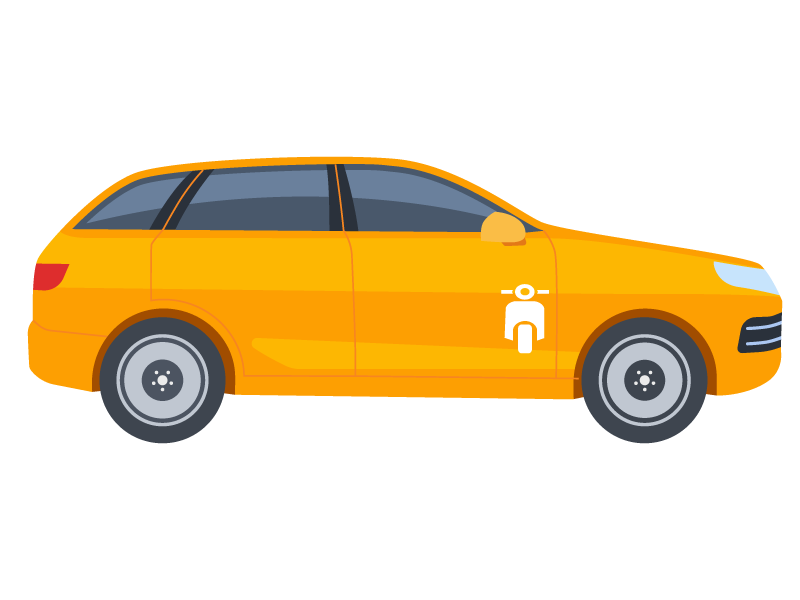
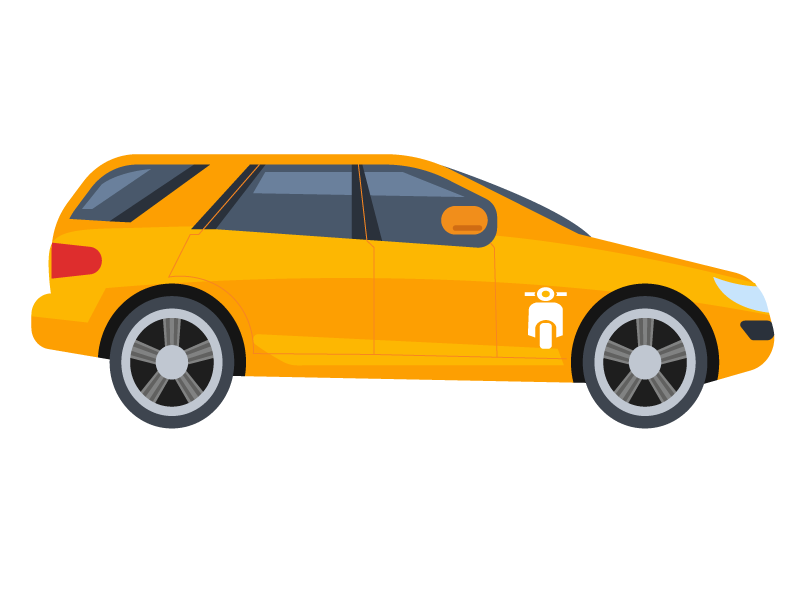
Added more vehicle images.

Changed region(s): [[0.0312, 0.24, 1.0, 0.75]]

diff --git a/src/Toktok/screens/AuthenticatedScreens/DeliveryServiceScreens/ToktokVehicleInformation/components/VehicleType.js b/src/Toktok/screens/AuthenticatedScreens/DeliveryServiceScreens/ToktokVehicleInformation/components/VehicleType.js
@@ -2,28 +2,22 @@ import React from 'react';
 import {Text, View, StyleSheet, Image} from 'react-native';
 
 import {ThrottledWithoutFeedback} from 'common/components';
+import {VectorIcon, ICON_SET} from 'src/revamp';
 
 import CONSTANTS from 'common/res/constants';
 import ASSETS from 'toktok/assets';
 
-const vehicleNameImage = [
-  {name: 'Motorcycle', image: ASSETS.Vehicles.Motorcycle},
-  {name: 'Sedan', image: ASSETS.Vehicles.Sedan},
-  {name: 'MPV', image: ASSETS.Vehicles.MPV},
-  {name: 'Van', image: ASSETS.Vehicles.Van},
-  {name: 'Truck', image: ASSETS.Vehicles.Truck},
-];
+const VEHICLE_IMAGE_CLASS = {
+  Motorcycle: ASSETS.Vehicles.Motorcycle,
+  Sedan: ASSETS.Vehicles.Sedan,
+  XUV: ASSETS.Vehicles.XUV,
+  MPV: ASSETS.Vehicles.MPV,
+  Van: ASSETS.Vehicles.Van,
+  Aluminum: ASSETS.Vehicles.Aluminum,
+};
 
 export const VehicleType = ({item, index, data, selectedVehicleType, setSelectedVehicleType}) => {
   const isSelected = item.id === selectedVehicleType.id ? true : false;
-
-  let vehicleImage = ASSETS.Vehicles.Motorcycle;
-
-  vehicleNameImage.map((type) => {
-    if (item.type.includes(type.name)) {
-      vehicleImage = type.image;
-    }
-  });
 
   const vehicleCardVerticalMargin = {
     marginTop: index === 0 ? CONSTANTS.MARGIN.M : 0,
@@ -33,7 +27,8 @@ export const VehicleType = ({item, index, data, selectedVehicleType, setSelected
 
   const vehicleDetailsStyle = {
     flex: 1,
-    padding: 16,
+    paddingHorizontal: 8,
+    paddingTop: 2,
     // backgroundColor: isSelected ? CONSTANTS.COLOR.TRANSPARENT_ORANGE : 'white',
   };
 
@@ -46,13 +41,24 @@ export const VehicleType = ({item, index, data, selectedVehicleType, setSelected
         }}
         delay={100}>
         <View style={styles.vehicleCardBody}>
-          <Image source={{uri: vehicleImage}} style={styles.vehicleImage} resizeMode={'contain'} />
+          <Image
+            source={{uri: VEHICLE_IMAGE_CLASS[item.imageClass]}}
+            style={styles.vehicleImage}
+            resizeMode={'contain'}
+          />
           <View style={vehicleDetailsStyle}>
             <Text style={{fontFamily: CONSTANTS.FONT_FAMILY.BOLD}}>{item.name}</Text>
             <Text style={{fontSize: CONSTANTS.FONT_SIZE.S}}>{item.phrase}</Text>
-            <View style={{flexDirection: 'row', justifyContent: 'space-between'}}>
-              <Text style={{fontSize: CONSTANTS.FONT_SIZE.S}}>{`Max weight: ${item.cargoWeightCapacity} KG`}</Text>
-              {/* <Text style={{color: CONSTANTS.COLOR.YELLOW}}>{`PHP ${item.flatRate}`}</Text> */}
+            <View style={{flexDirection: 'row', alignItems: 'center'}}>
+              <VectorIcon name="box" iconSet={ICON_SET.Feather} size={12} style={{marginRight: 4}} />
+              <Text
+                style={{
+                  fontSize: CONSTANTS.FONT_SIZE.S,
+                }}>{`${item.cargoMaxLength} x ${item.cargoMaxWidth} x ${item.cargoMaxHeight} meter`}</Text>
+            </View>
+            <View style={{flexDirection: 'row', alignItems: 'center'}}>
+              <VectorIcon name="weight-hanging" iconSet={ICON_SET.FontAwesome5} size={12} style={{marginRight: 4}} />
+              <Text style={{fontSize: CONSTANTS.FONT_SIZE.S}}>{`Up to ${item.cargoWeightCapacity} kg`}</Text>
             </View>
           </View>
         </View>
@@ -63,7 +69,7 @@ export const VehicleType = ({item, index, data, selectedVehicleType, setSelected
 
 const styles = StyleSheet.create({
   vehicleCard: {
-    height: 100,
+    height: 110,
     flexDirection: 'row',
     backgroundColor: 'white',
     marginHorizontal: CONSTANTS.MARGIN.M,
@@ -78,8 +84,8 @@ const styles = StyleSheet.create({
     flex: 1,
   },
   vehicleImage: {
-    height: 100,
-    width: 150,
+    height: 110,
+    width: 160,
     backgroundColor: CONSTANTS.COLOR.TRANSPARENT_ORANGE,
   },
 });

diff --git a/src/res/constants.js b/src/res/constants.js
@@ -1,12 +1,16 @@
-export const APP_VERSION = '1.16.0';
+export const APP_VERSION = '1.17.0';
 export const APP_FLAVOR = 'C'; // C = Customer | D = Driver
 export const ACCOUNT_TYPE = 1; // 1 = Customer | 2 = Driver
 export const MAPS_API_KEY = 'AIzaSyDhlw6pbriuwr_Mb6KYkVlBar7KD1KTrOs';
 
-export const PROTOCOL = 'http';
-export const HOST_PORT = '192.168.0.102:3000'; // Myutini
+// export const PROTOCOL = 'http';
+// export const HOST_PORT = '192.168.0.102:3000'; // Myutini
+
+export const PROTOCOL = 'https';
+export const HOST_PORT = 'test.toktok.ph:2096'; // Test
+
 // export const PROTOCOL = 'https';
-// export const HOST_PORT = 'test.toktok.ph:2096'; // Myutini
+// export const HOST_PORT = 'graphql.toktok.ph:2096'; // Prod
 
 export const TOKTOK_WALLET_PROTOCOL = 'http';
 export const TOKTOK_WALLET_PROTOCOL_HOST_PORT = '192.168.0.103:3100';

diff --git a/src/Toktok/assets/vehicles/index.js b/src/Toktok/assets/vehicles/index.js
@@ -1,15 +1,17 @@
 import {Image} from 'react-native';
 
+import AluminumImage from './Aluminum.png';
 import MotorcycleImage from './Motorcycle.png';
 import MpvImage from './MPV.png';
 import SedanImage from './Sedan.png';
-import TruckImage from './Truck.png';
 import VanImage from './Van.png';
+import XUVImage from './XUV.png';
 
 export default {
+  Aluminum: Image.resolveAssetSource(AluminumImage).uri,
   Motorcycle: Image.resolveAssetSource(MotorcycleImage).uri,
   MPV: Image.resolveAssetSource(MpvImage).uri,
   Sedan: Image.resolveAssetSource(SedanImage).uri,
-  Truck: Image.resolveAssetSource(TruckImage).uri,
   Van: Image.resolveAssetSource(VanImage).uri,
+  XUV: Image.resolveAssetSource(XUVImage).uri,
 };

diff --git a/src/graphql/model/VehicleType.js b/src/graphql/model/VehicleType.js
@@ -10,7 +10,11 @@ export const GET_VEHICLE_TYPES = gql`
       flatRate
       perKm
       threshold
+      imageClass
       cargoWeightCapacity
+      cargoMaxLength
+      cargoMaxHeight
+      cargoMaxWidth
       status
     }
   }
